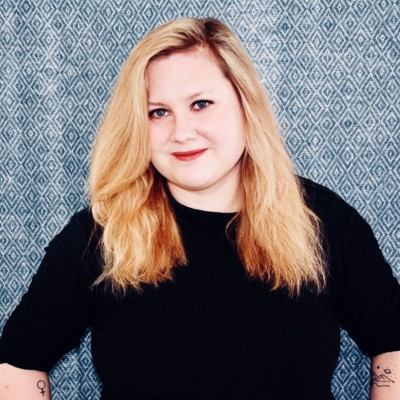
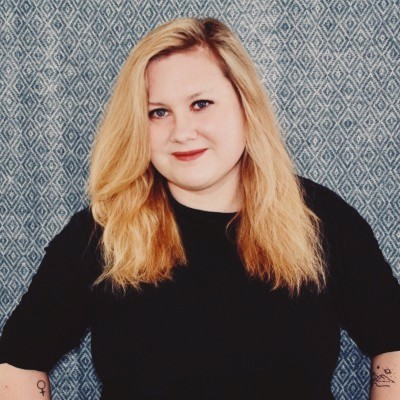
Added span with pink line + dot. Changed profile picture

diff --git a/index.html b/index.html
@@ -13,9 +13,9 @@
 <body>
     <header class="header">
         <div class="header-icons">
-            <a class="icon" target="blank" href="https://github.com/emma-tech"><img src="./img/github_white.svg" alt="github logo"/></a>
-            <a class="icon" target="blank" href="https://www.linkedin.com/in/emmaurman"><img src="./img/linkedin_white.svg" alt="linkedin logo"/></a>
-            <a class="icon" target="blank" href="https://stackoverflow.com/c/technigo/users/152/?tab=profile"><img src="./img/stackoverflow_white.svg" alt="stackoverflow logo"/></a>
+            <a class="icon" target="blank" href="https://github.com/emma-tech"><img src="./img/github_white.svg" alt="github icon"/></a>
+            <a class="icon" target="blank" href="https://www.linkedin.com/in/emmaurman"><img src="./img/linkedin_white.svg" alt="linkedin icon"/></a>
+            <a class="icon" target="blank" href="https://stackoverflow.com/c/technigo/users/152/?tab=profile"><img src="./img/stackoverflow_white.svg" alt="stackoverflow icon"/></a>
         </div>
         
         <div class="header-text">
@@ -24,17 +24,18 @@
         </div>
         
         <div class="profile-pic-div"> 
-            <img class="profile-picture" src="./img/profile_picture.jpg">
+            <img class="profile-picture" src="./img/profile_picture1.jpeg" alt="picture of emma">
         </div>
     </header>
 
      <section class="section-grey">
-         <p> 
+         <p tabindex="0"><span class="pink-line"></span><span class="pink-dot"></span>
              Hello! Welcome to my portfolio. 
              I'm a creative marketing/web manager with frontend developer skills and user experience at &#128153;
              My passion is to create meaningful, fun, beautiful and accessible digital experiences that make sense to people.
          </p>
      </section>
+
      <section class="section-white"></section>
      <section class="section-grey"></section>
      <section class="section-white"></section>

diff --git a/style.css b/style.css
@@ -4,17 +4,15 @@
 @import url('https://fonts.googleapis.com/css2?family=Montserrat:wght@400;700&family=Roboto:wght@400;700&display=swap');
 
 /* Colors for later:
+Dark pink:
 #7D4A50
+#9C545A
+
+Brighter pink:  
+#BF8E92
+#D8827B
 #D6837B
 #D79A9C
-#ECEAEA
-#858289
-
-#858285
-#BF8E92
-#ECEAEA
-#D8827B
-#9C545A
 */
 
 /* Basic styling */
@@ -77,6 +75,24 @@ align-self: flex-start;
 
 /* Style for different sections */
 
+.pink-line {
+    display: inline-block;
+    width: 80px;
+    height: 9px;
+    border-top: 3px solid #9C545A
+}
+
+.pink-dot {
+    display: inline-block;
+    width: 15px;
+    height: 15px;
+    border: 2px solid #9C545A;
+    background-color: #9C545A;
+    margin-right: 15px;
+    margin-left: -1px;
+    border-radius: 50%;
+}
+
 .section-grey {
     background: #f4f4f4;
 }
@@ -103,6 +119,17 @@ align-self: flex-start;
     .profile-picture {
         width: 150px;
         height: 150px;
+    }
+
+    .pink-line {
+        width: 30px;
+        height: 4px;
+        border-top: 2px solid #9C545A;
+    }
+    
+    .pink-dot {
+        width: 6px;
+        height: 6px;
     }
 }
 
